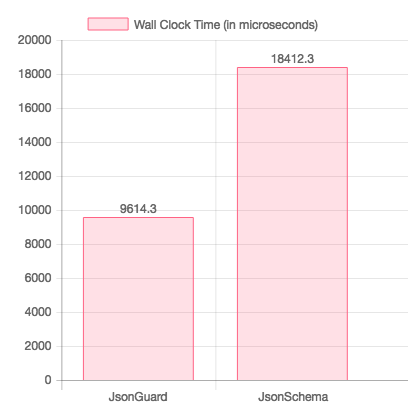
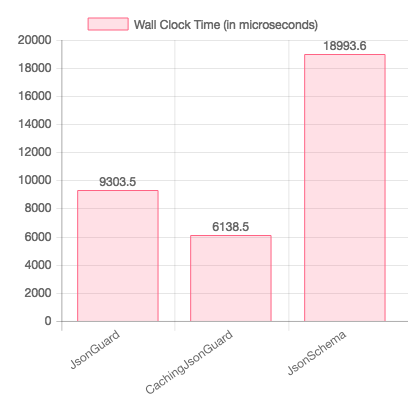
test caching

diff --git a/src/CachingJsonGuardAdapter.php b/src/CachingJsonGuardAdapter.php
@@ -1,0 +1,41 @@
+<?php
+
+namespace Yuloh\JsonSchemaBenchmark;
+
+use League;
+use Redis;
+
+class CachingJsonGuardAdapter implements ValidatorAdapter
+{
+    private $cache;
+
+    public function __construct()
+    {
+        $redis = new Redis();
+        $redis->connect('127.0.0.1', 6379);
+        $this->cache = new \Doctrine\Common\Cache\RedisCache();
+        $this->cache->setRedis($redis);
+    }
+
+    /**
+     * {@inheritdoc}
+     */
+    public function validate($data, $schemaPath)
+    {
+        $schema = $this->loadSchema($schemaPath);
+        $validator = new League\JsonGuard\Validator($data, $schema);
+        return $validator->passes();
+    }
+
+    private function loadSchema($path)
+    {
+        if ($this->cache->contains($path)) {
+            return $this->cache->fetch($path);
+        }
+
+        $deref  = new League\JsonGuard\Dereferencer();
+        $schema = $deref->dereference('file://' . $path);
+        $this->cache->save($path, $schema);
+        return $schema;
+    }
+}

diff --git a/src/DraftFourComplianceTest.php b/src/DraftFourComplianceTest.php
@@ -11,6 +11,13 @@ class DraftFourComplianceTest
         return self::runTests($validator);
     }
 
+    public static function testCachingJsonGuard()
+    {
+        $validator = new CachingJsonGuardAdapter();
+
+        self::runTests($validator);
+    }
+
     public static function testJsonSchema()
     {
         $validator = new JsonSchemaAdapter();

diff --git a/src/MetaValidationBench.php b/src/MetaValidationBench.php
@@ -15,6 +15,13 @@ class MetaValidationBench
         self::validate($validator);
     }
 
+    public function benchCachingJsonGuard()
+    {
+        $validator = new CachingJsonGuardAdapter();
+
+        self::validate($validator);
+    }
+
     /**
      * @Revs(50)
      * @Iterations(5)

diff --git a/src/ComposerBench.php b/src/ComposerBench.php
@@ -15,6 +15,13 @@ class ComposerBench
         self::validate($validator);
     }
 
+    public function benchCachingJsonGuard()
+    {
+        $validator = new CachingJsonGuardAdapter();
+
+        self::validate($validator);
+    }
+
     /**
      * @Revs(50)
      * @Iterations(5)

diff --git a/config.php b/config.php
@@ -26,6 +26,7 @@ return [
     ],
     'subjects' => [
         'JsonGuard',
+        'CachingJsonGuard',
         'JsonSchema'
     ],
     'report_path' => __DIR__ . '/reports',

diff --git a/README.md b/README.md
@@ -37,8 +37,9 @@ This test checks the performance of validating the meta schema which defines JSO
 
 | Validator | Wall Clock Time (in microseconds) |
 |-----------|:---------------------------------:|
-| JsonGuard | 32803.2 |
-| JsonSchema | 222773.2 |
+| JsonGuard | 50629.5 |
+| CachingJsonGuard | 29305.9 |
+| JsonSchema | 250820.5 |
 
 ### Memory usage
 
@@ -47,7 +48,8 @@ This test checks the performance of validating the meta schema which defines JSO
 | Validator | Peak Memory Usage (in bytes) |
 |-----------|:----------------------------:|
 | JsonGuard | 138288 |
-| JsonSchema | 180384 |
+| CachingJsonGuard | 150396 |
+| JsonSchema | 186937.6 |
 
 ## Composer Schema Validaton
 
@@ -61,8 +63,9 @@ This test checks the performance of validating a composer.json file against the 
 
 | Validator | Wall Clock Time (in microseconds) |
 |-----------|:---------------------------------:|
-| JsonGuard | 9614.3 |
-| JsonSchema | 18412.3 |
+| JsonGuard | 9303.5 |
+| CachingJsonGuard | 6138.5 |
+| JsonSchema | 18993.6 |
 
 ### Memory usage
 
@@ -71,6 +74,7 @@ This test checks the performance of validating a composer.json file against the 
 | Validator | Peak Memory Usage (in bytes) |
 |-----------|:----------------------------:|
 | JsonGuard | 142616 |
+| CachingJsonGuard | 180905.6 |
 | JsonSchema | 209424 |
 
 ## Draft Four Compliance
@@ -86,10 +90,15 @@ This test uses the official JSON Schema test suite to determine the validator's 
 | Validator | Total Test Failures |
 |-----------|:---------------------------------:|
 | JsonGuard | 0 |
+| CachingJsonGuard | 0 |
 | JsonSchema | 19 |
 
 
 ### JsonGuard
+
+No test failures.
+
+### CachingJsonGuard
 
 No test failures.
 

diff --git a/reports/validating-the-meta-schema.md b/reports/validating-the-meta-schema.md
@@ -10,8 +10,9 @@ This test checks the performance of validating the meta schema which defines JSO
 
 | Validator | Wall Clock Time (in microseconds) |
 |-----------|:---------------------------------:|
-| JsonGuard | 32803.2 |
-| JsonSchema | 222773.2 |
+| JsonGuard | 50629.5 |
+| CachingJsonGuard | 29305.9 |
+| JsonSchema | 250820.5 |
 
 ### Memory usage
 
@@ -20,4 +21,5 @@ This test checks the performance of validating the meta schema which defines JSO
 | Validator | Peak Memory Usage (in bytes) |
 |-----------|:----------------------------:|
 | JsonGuard | 138288 |
-| JsonSchema | 180384 |
+| CachingJsonGuard | 150396 |
+| JsonSchema | 186937.6 |

diff --git a/reports/validating-composer.md b/reports/validating-composer.md
@@ -10,8 +10,9 @@ This test checks the performance of validating a composer.json file against the 
 
 | Validator | Wall Clock Time (in microseconds) |
 |-----------|:---------------------------------:|
-| JsonGuard | 9614.3 |
-| JsonSchema | 18412.3 |
+| JsonGuard | 9303.5 |
+| CachingJsonGuard | 6138.5 |
+| JsonSchema | 18993.6 |
 
 ### Memory usage
 
@@ -20,4 +21,5 @@ This test checks the performance of validating a composer.json file against the 
 | Validator | Peak Memory Usage (in bytes) |
 |-----------|:----------------------------:|
 | JsonGuard | 142616 |
+| CachingJsonGuard | 180905.6 |
 | JsonSchema | 209424 |

diff --git a/reports/draft-four-compliance.md b/reports/draft-four-compliance.md
@@ -11,10 +11,15 @@ This test uses the official JSON Schema test suite to determine the validator's 
 | Validator | Total Test Failures |
 |-----------|:---------------------------------:|
 | JsonGuard | 0 |
+| CachingJsonGuard | 0 |
 | JsonSchema | 19 |
 
 
 ### JsonGuard
+
+No test failures.
+
+### CachingJsonGuard
 
 No test failures.
 
